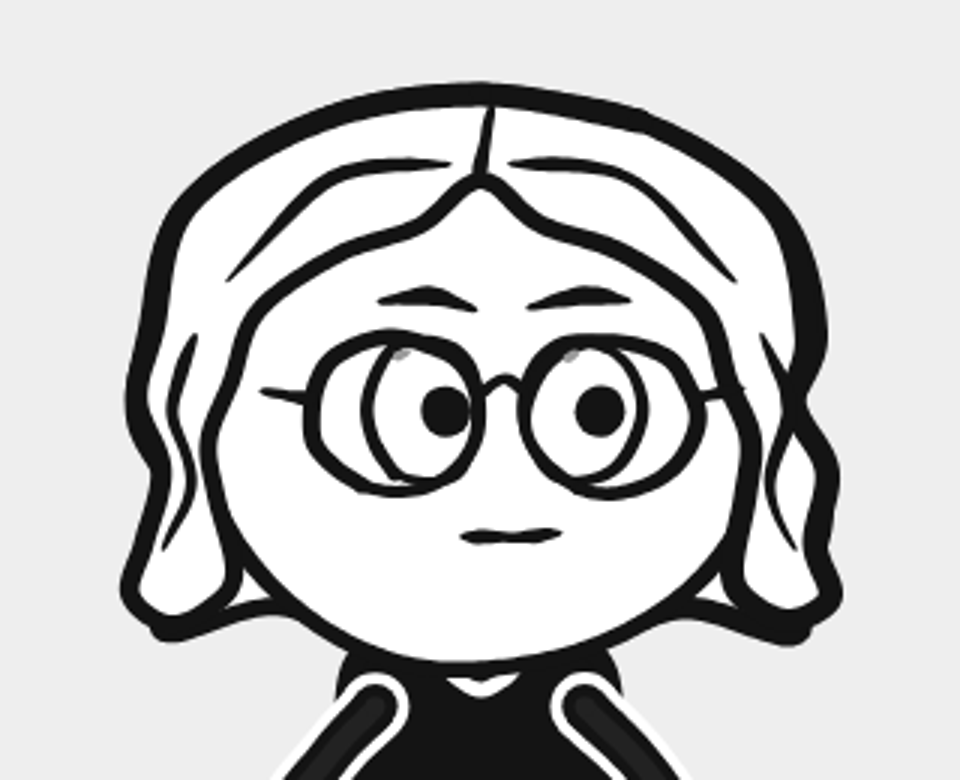
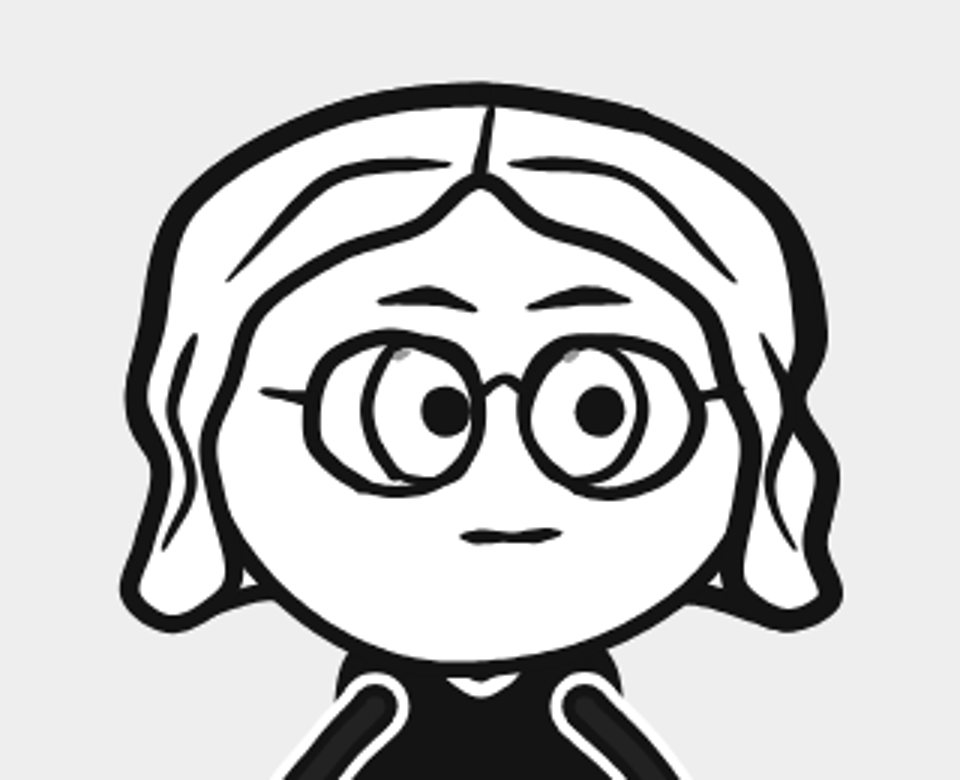
Trial 1: back hair back to the previous length (user preferred it)
Claude-Session: https://claude.ai/code/session_01BoxvgZ1TpRreVfD9rN3XD5

diff --git a/web/cameos.js b/web/cameos.js
@@ -703,7 +703,7 @@ const Cameos = (() => {
     head: head({ hair: MID_SHORT_FRONT, front: roundGlasses }),
     detail: (ctx, n) => stroke(ctx, [[-32, n + 2], [0, n + 24], [32, n + 2]], { w: 7, color: W }) });
   const nickMidPart = build({
-    shirt: INK, sleeve: '#222', behind: midBack({ len: 0.86, wide: 1.1, waves: 3 }),   // back hair, the same length as the front
+    shirt: INK, sleeve: '#222', behind: midBack({ len: 0.8, wide: 1.1, waves: 3 }),   // back hair, the same length as the front
     body: { hipY: -140, neckY: -300, legW: 27, footX: 42, hipX: 30, torso: (n, h) => [[-54, n], [54, n], [74, n + 60], [76, h - 4], [-76, h - 4], [-74, n + 60]] },
     headScale: [1.04, 0.98],
     head: head({ hair: MID_FRONT, front: roundGlasses }),
